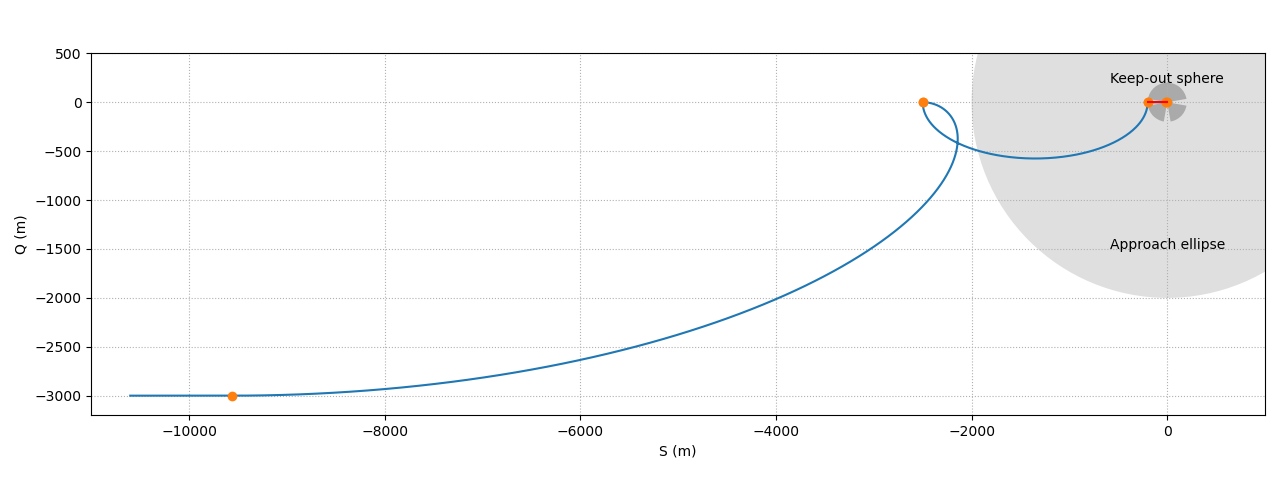
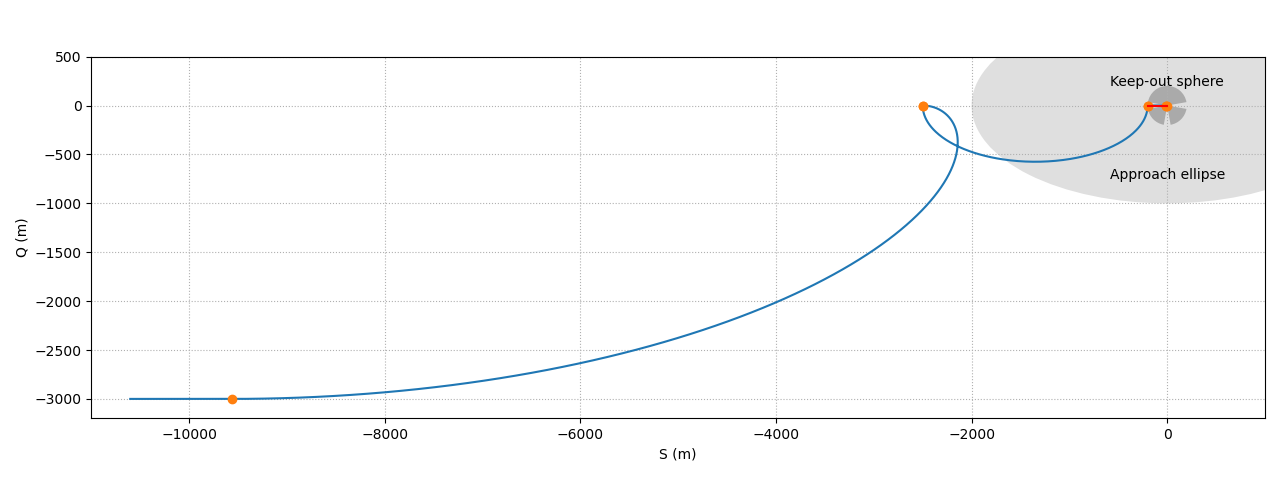
style : approach ellipse is now an ellipse

diff --git a/doc/source/_static/docking.py b/doc/source/_static/docking.py
@@ -110,7 +110,7 @@ plt.figure(figsize=(12.8, 4.8))
 ax = plt.subplot(111)
 
 # Approach sphere (2 km)
-circle = mpatches.Circle((0, 0), 2000, ec="none", fc="#aaaaaa60")
+circle = mpatches.Ellipse((0, 0), 4000, 2000, ec="none", fc="#aaaaaa60")
 ax.add_patch(circle)
 
 # Keep out sphere (200 m) with corridors
@@ -121,7 +121,7 @@ ax.add_patch(w1)
 ax.add_patch(w2)
 ax.add_patch(w3)
 
-plt.text(0, -1500, "Approach ellipse", ha="center")
+plt.text(0, -750, "Approach ellipse", ha="center")
 plt.text(0, 200, "Keep-out sphere", ha="center")
 
 plt.plot(chaser_ephem[:, 1], chaser_ephem[:, 0])
